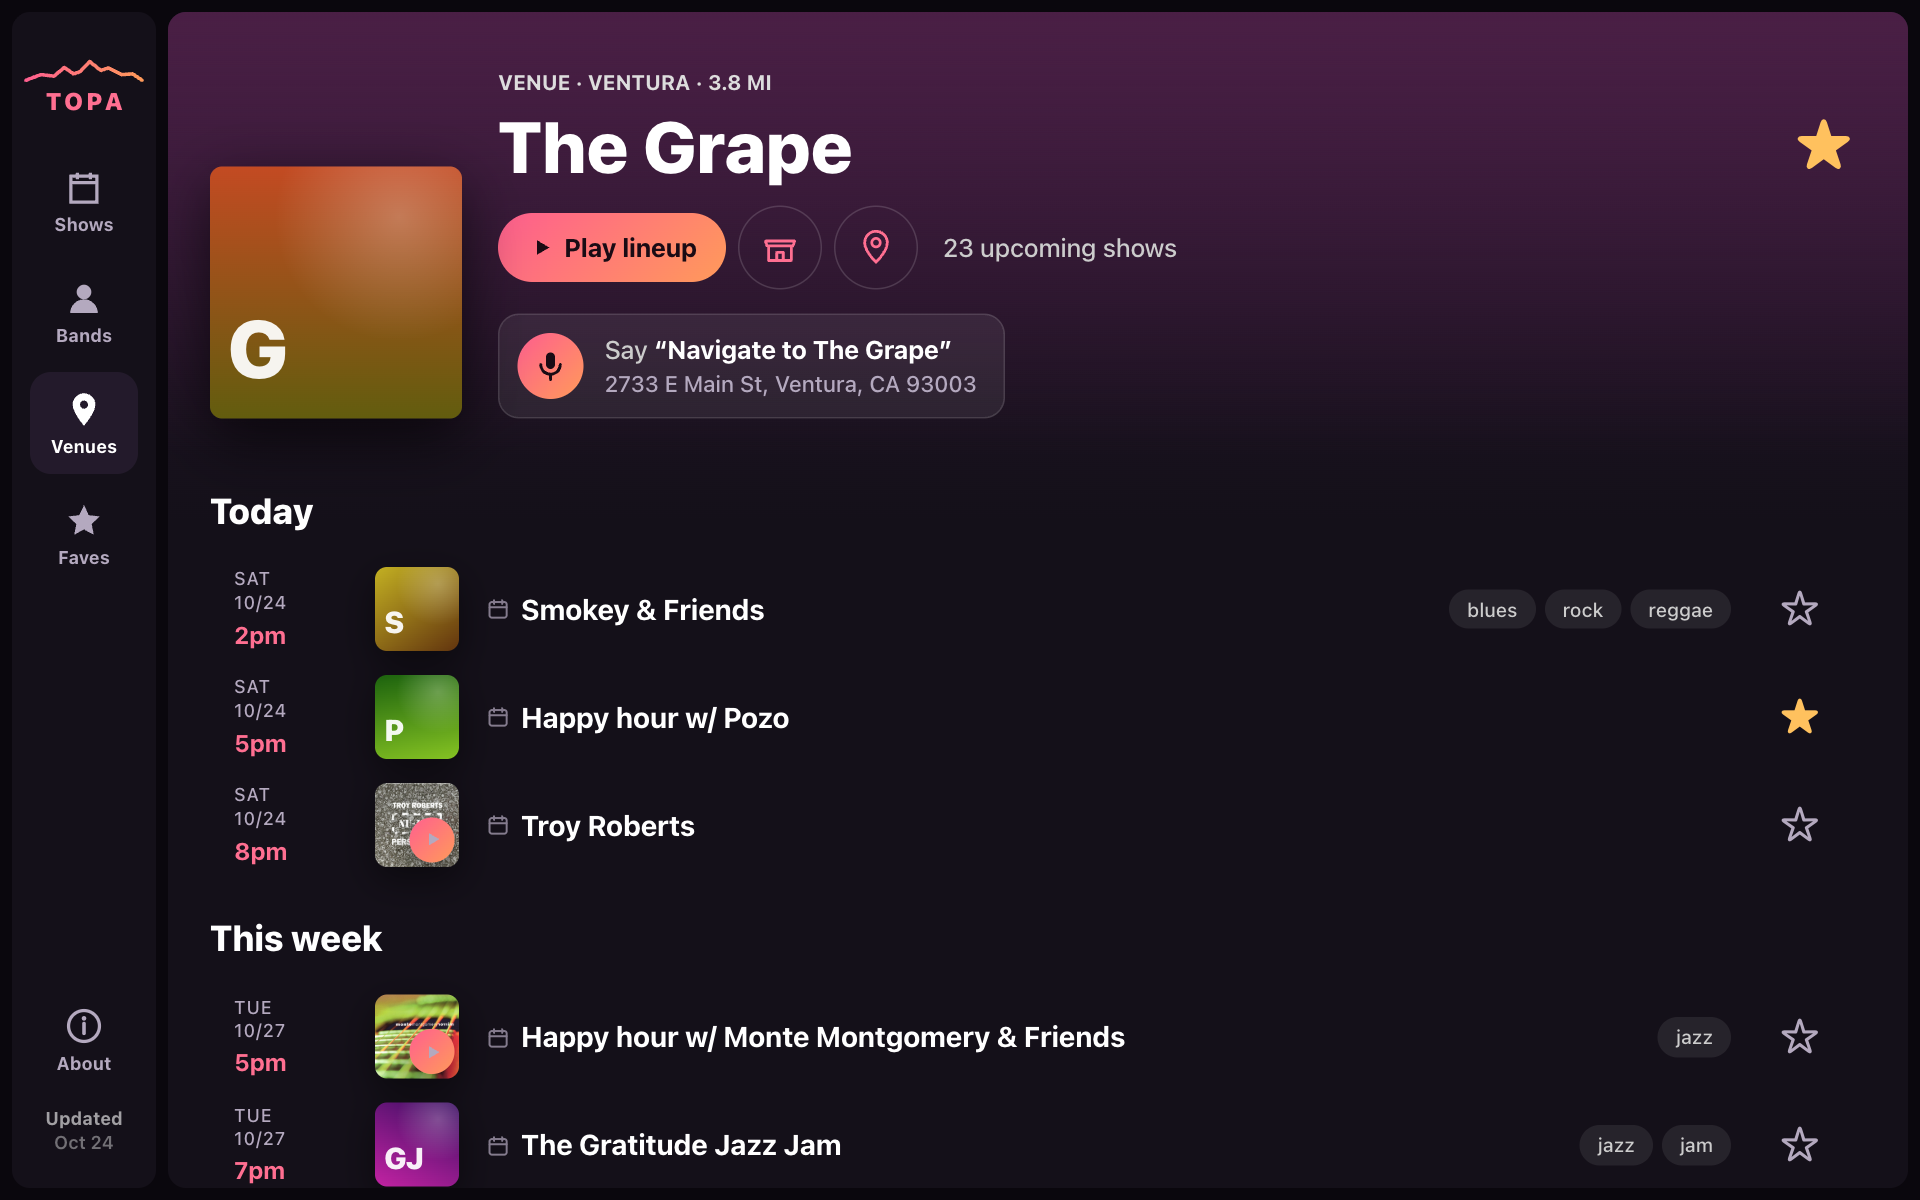
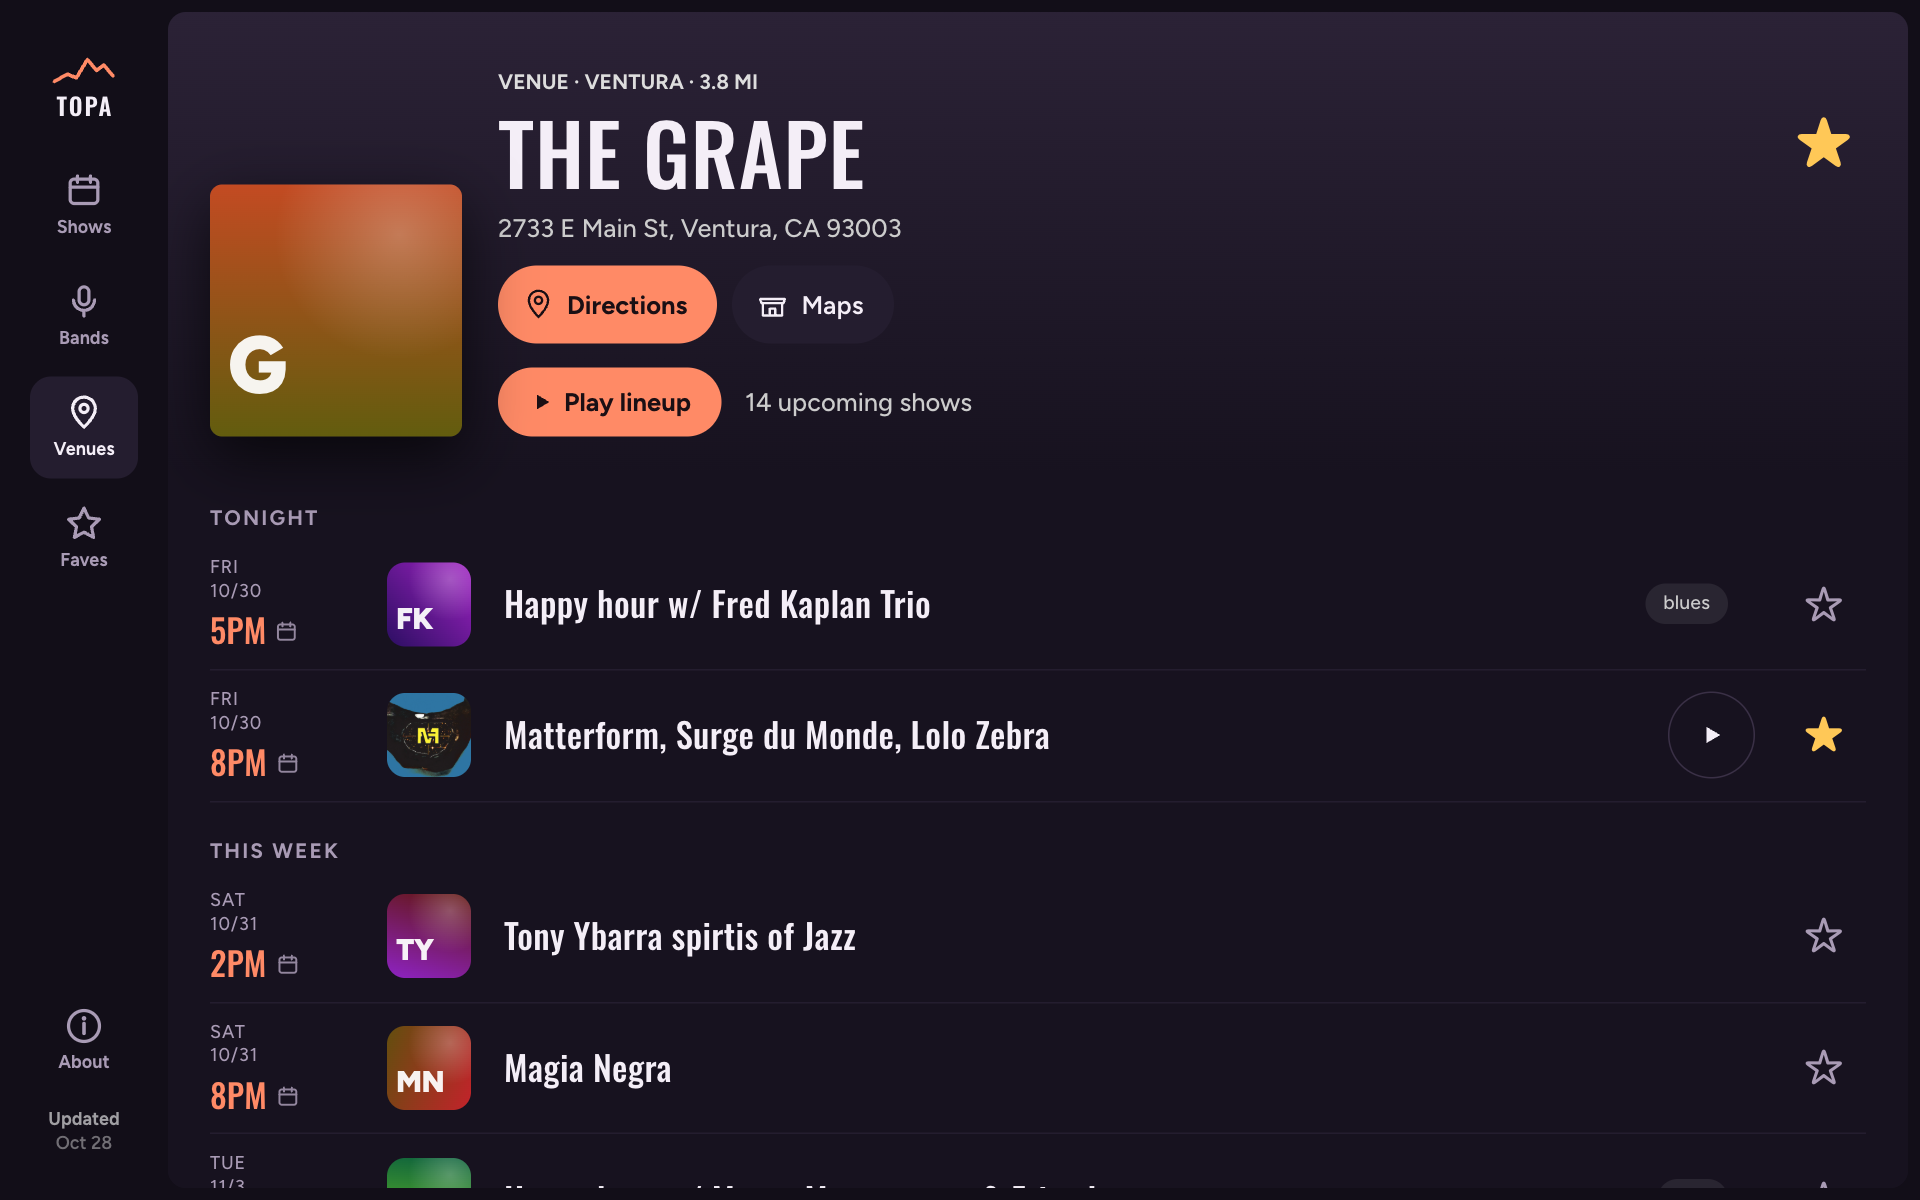
docs: update the README and screenshots for the redesign

diff --git a/README.md b/README.md
@@ -2,7 +2,7 @@
 
 <h1 align="center">TOPA Local Music Finder</h1>
 
-*Made by local music lovers to find live music nearby and pick a show fast. Bands, fans, and venues add to it, so it keeps getting better.*
+*Made for and by local live music lovers. Bands, fans, and venues add to it, so it keeps getting better.*
 
 **Who's playing locally tonight, and what do they sound like?** TOPA is a live music finder for Ventura County that I built for my Tesla's touchscreen, and then for phones. Open it, see upcoming shows, tap ▶ to hear a band, and go.
 
@@ -10,9 +10,10 @@
 
 <table>
   <tr>
-    <td width="33%"><img src="screenshots/phone-01-shows.png" alt="Today's shows on a phone, with faves pinned on top"></td>
-    <td width="33%"><img src="screenshots/phone-07-venue-page.png" alt="A venue's lineup on a phone"></td>
-    <td width="33%"><img src="screenshots/phone-09-faves.png" alt="Faved bands and venues on a phone"></td>
+    <td width="25%"><img src="screenshots/phone-01-shows.png" alt="Tonight's shows on a phone, with faves pinned on top"></td>
+    <td width="25%"><img src="screenshots/phone-13-full-player.png" alt="The full-screen player on a phone"></td>
+    <td width="25%"><img src="screenshots/phone-07-venue-page.png" alt="A venue's lineup on a phone"></td>
+    <td width="25%"><img src="screenshots/phone-03-search.png" alt="Search on a phone"></td>
   </tr>
 </table>
 
@@ -22,12 +23,13 @@ More in [`screenshots/`](screenshots/): every page on the Tesla screen (1920×12
 
 - **Today first.** It opens on today's shows ("Today" until 4pm, then "Tonight") with big start times, then lets you pick
   another day, the weekend, or a genre. Each row shows the band, venue, town and distance.
-- **Hear before you go.** Sunset-colored ▶ buttons play 30-second song previews from Apple Music. "Play all" runs through a whole night's lineup like a radio, and the player shows where and when each band is playing.
-- **Bands and venues.** Every band and venue has its own page: dates, lineup, call, website, and directions, plus the
+- **Hear before you go.** ▶ plays 30-second previews from Apple Music. "Play all" runs through a whole night's lineup
+  like a radio. Tap the player to open it full screen.
+- **Bands and venues.** Every band and venue has its own page: dates, lineup, directions, call and website, plus the
   band's links and photo when it has sent them. The Venues tab lists each venue's town, distance, show count and next show.
 - **Anyone can add a show.** Bands, fans, and venues send shows, band info, and venue photos through short forms
-  (About → Add your show). Each one is checked before it goes live. Shows sent this way get a small **@**; shows from the
-  Ventura Rocks community calendar get a small calendar.
+  (tap the TOPA logo → Add your show). Each one is checked before it goes live. Shows sent this way get a small **@**;
+  shows from the Ventura Rocks community calendar get a small calendar.
 - **Faves.** Tap any star to fave a band or venue, on a row or right on a band's photo. When a fave is playing on the day
   you're looking at, it's pinned at the top of Shows, and shows at a faved venue are tagged "★ Fave venue". The Faves tab
   switches between your bands and venues.
@@ -39,8 +41,7 @@ More in [`screenshots/`](screenshots/): every page on the Tesla screen (1920×12
   [`llms.txt`](https://topa.automatous.io/llms.txt), a plain-English copy of the listings, with no app needed.
 - **Works like an app.** Add it to a phone's home screen (see [Try it](#try-it)) and it opens full-screen. It keeps working
   offline with the last listings, pull down to refresh, and the back button (or swipe-back) moves through pages.
-- **About.** Credits, how it works, and links to this repo live in an About popup, opened from the sidebar on the Tesla
-  or the bottom bar on phones, so the main screens stay clean.
+- **About.** Credits and links live behind the TOPA logo, so the main screens stay clean.
 
 ## Try it
 
@@ -52,8 +53,6 @@ More in [`screenshots/`](screenshots/): every page on the Tesla screen (1920×12
 2. Tap the **Share** button (the square with an arrow pointing up) at the bottom of the screen.
 3. Scroll down and tap **Add to Home Screen**, then **Add**.
 4. Open TOPA from the new icon on your home screen. Allow location when it asks if you want distances.
-
-<img src="screenshots/phone-00-home-screen.png" alt="The TOPA icon on an iPhone home screen" width="320">
 
 **Android:** open the link in **Chrome**, tap **⋮** (top right), then **Install app** (or **Add to Home screen**). The About page inside the app also has a one-tap **Install TOPA** button when Chrome offers it.
 
@@ -74,20 +73,21 @@ Built for glancing at a car screen, then refined for phones:
 
 - **Big targets, one tap.** Main buttons are 44–60px tall. Choices are buttons you can see, not dropdowns or sliders. Picking a distance is one tap and closes the panel, and every star faves in one tap without leaving the page.
 - **The sidebar sits on the left on the Tesla.** It's the closest edge to the driver, it uses width (which the screen has plenty of) instead of height, and it keeps app buttons away from Tesla's own controls at the bottom. Phones get a bottom tab bar instead.
-- **Fewer places to look.** Search sits in the Shows header instead of on its own tab, and there's no separate Home page. The menu is Shows · Bands · Venues · Faves.
+- **Fewer places to look.** No search tab and no Home page: search lives in the Shows header on the Tesla and in the
+  top bar on phones. The menu is Shows · Bands · Venues · Faves.
 - **The layout moves with the screen.** Sizes adjust as the screen gets wider or narrower, so TOPA fits the Tesla at
   full screen, the narrower view when the car's side panel is open, a laptop window, and a phone, without anything
   oversized or cramped. (The car's browser is zoomed in, so full screen behaves like a 1280px-wide window.)
 - **Short headers.** Title, count, search and the main buttons share one row on the Tesla, so more shows fit on screen.
+  Day titles are just the weekday, so Play all never moves.
 - **Rows that scroll sideways say so.** Day and genre rows fade at the edge and show ‹ › arrows on the Tesla when more chips
   are hidden. Phones show a cut-off chip and swipe instead.
 - **Plain-English times.** "Today 1pm", "Tonight 8pm", or a date like "Sat 10/31" for anything later, and shows that
   already ended drop off.
 - **No repeated information.** Single-day lists show only times, since the date is in the title. Band pages lead with the
   venue on each row, and a venue's page drops the venue line, since it's in the header. Each list shows one fave star per band.
-- **Its own look: the "Pink Moment."** TOPA is named for the Topa Topa mountains above Ojai, whose bluffs glow pink
-  and orange at sunset. That's the palette: a sunset pink-to-orange for play and selected, dusk purples behind it,
-  yellow for faves, and the Topa Topa ridgeline over the name.
+- **Its own look.** Named for the Topa Topa mountains above Ojai: dusk purple, sunset coral, and the ridgeline over the
+  name. Names and times are in Oswald, like a gig poster; the rest is Figtree. Both fonts ship with the app.
 
 ## How it works
 
@@ -170,7 +170,8 @@ commit gets a ✓ or ✗ before it's tagged as a release.
 | `index.html` | The page shell |
 | `app.js` | The app: listings, pages, previews, player (sections marked inside) |
 | `data.js` | Venue coordinates, phone numbers and websites, plus the genre map |
-| `styles.css` | All styles; phone layout in the `max-width: 700px` block at the end |
+| `styles.css` | All styles; phone rules in the `max-width: 700px` blocks |
+| `fonts/` | Oswald and Figtree, with their licenses |
 | `events.json` | Current listings, written by the fetch script |
 | `llms.txt` | The same listings in plain English for AI assistants, also written by the fetch script |
 | `scripts/fetch_events.py` | Pulls the calendar, merges in the shows sent to TOPA, writes `events.json` and `llms.txt` |
@@ -187,6 +188,7 @@ commit gets a ✓ or ✗ before it's tagged as a release.
 | `screenshots/` | Tesla and phone screenshots |
 | `.prettierrc.json` | Code formatting settings ([Prettier](https://prettier.io)) |
 | `tests/`, `package.json` | Browser tests (`npm test`), Python tests, and saved listings |
+| `CHANGELOG.md` | Changes by version |
 | `LICENSE` | All rights reserved; what is and isn't covered |
 
 ## Credits
